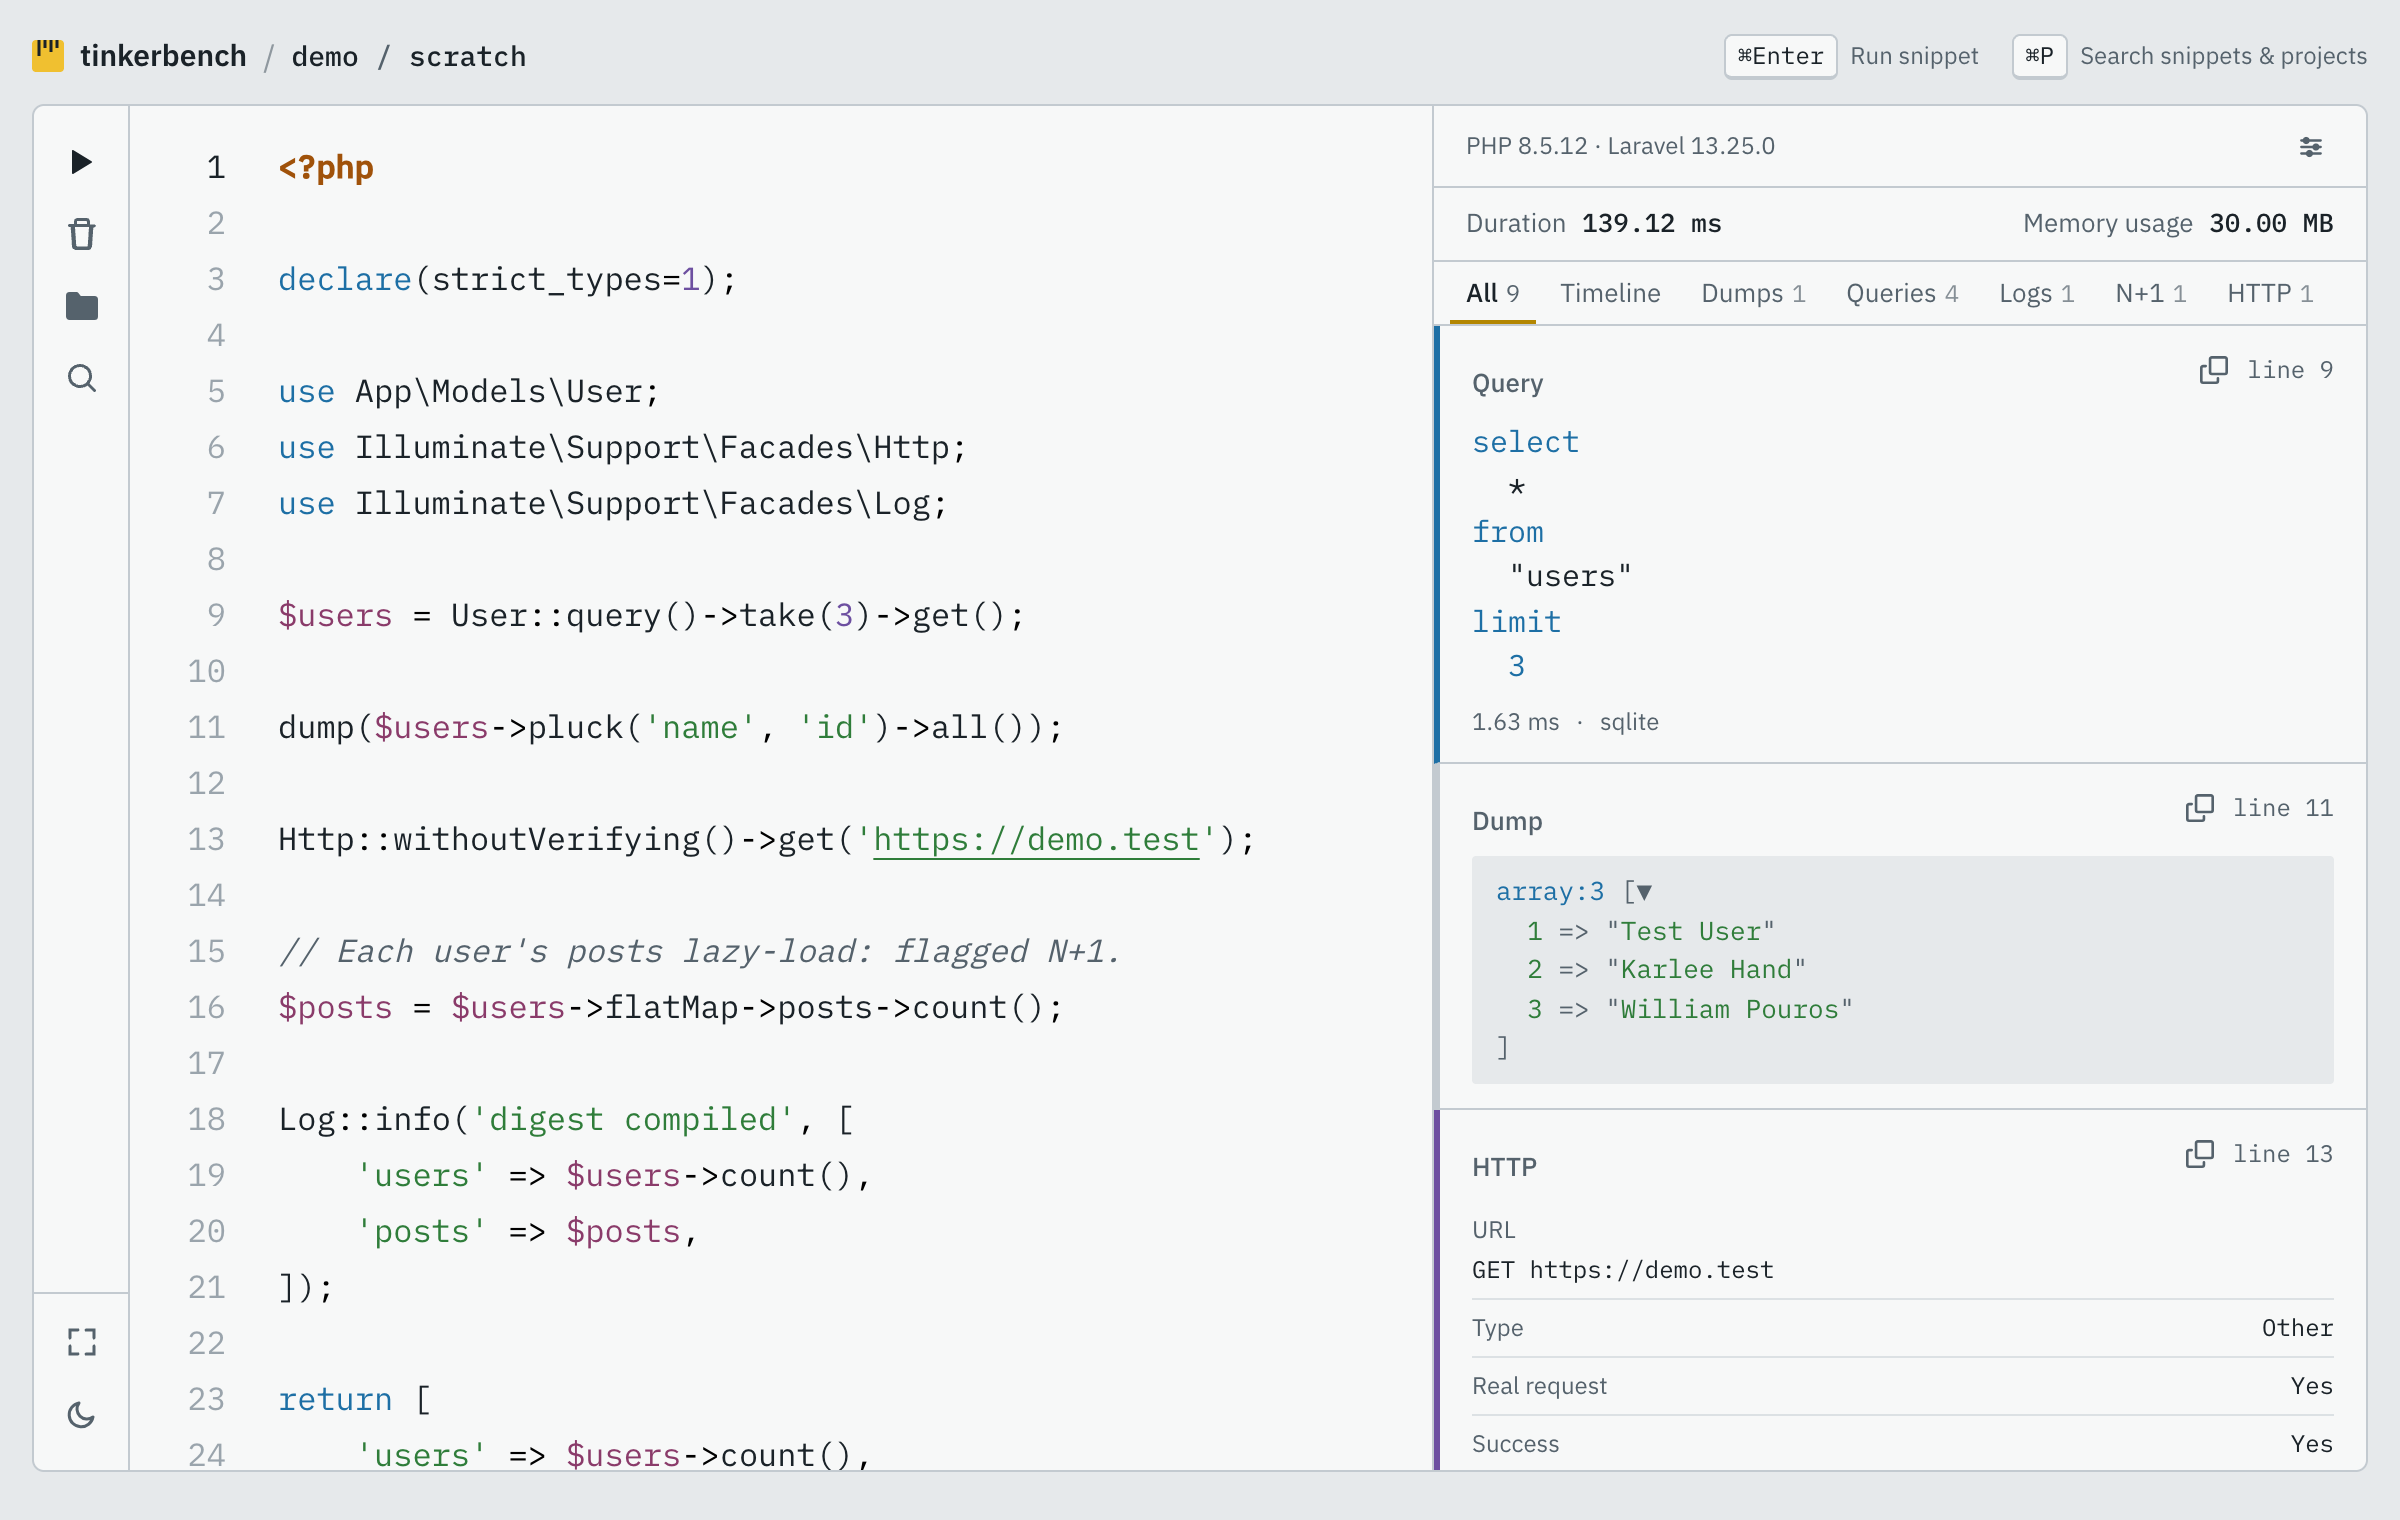
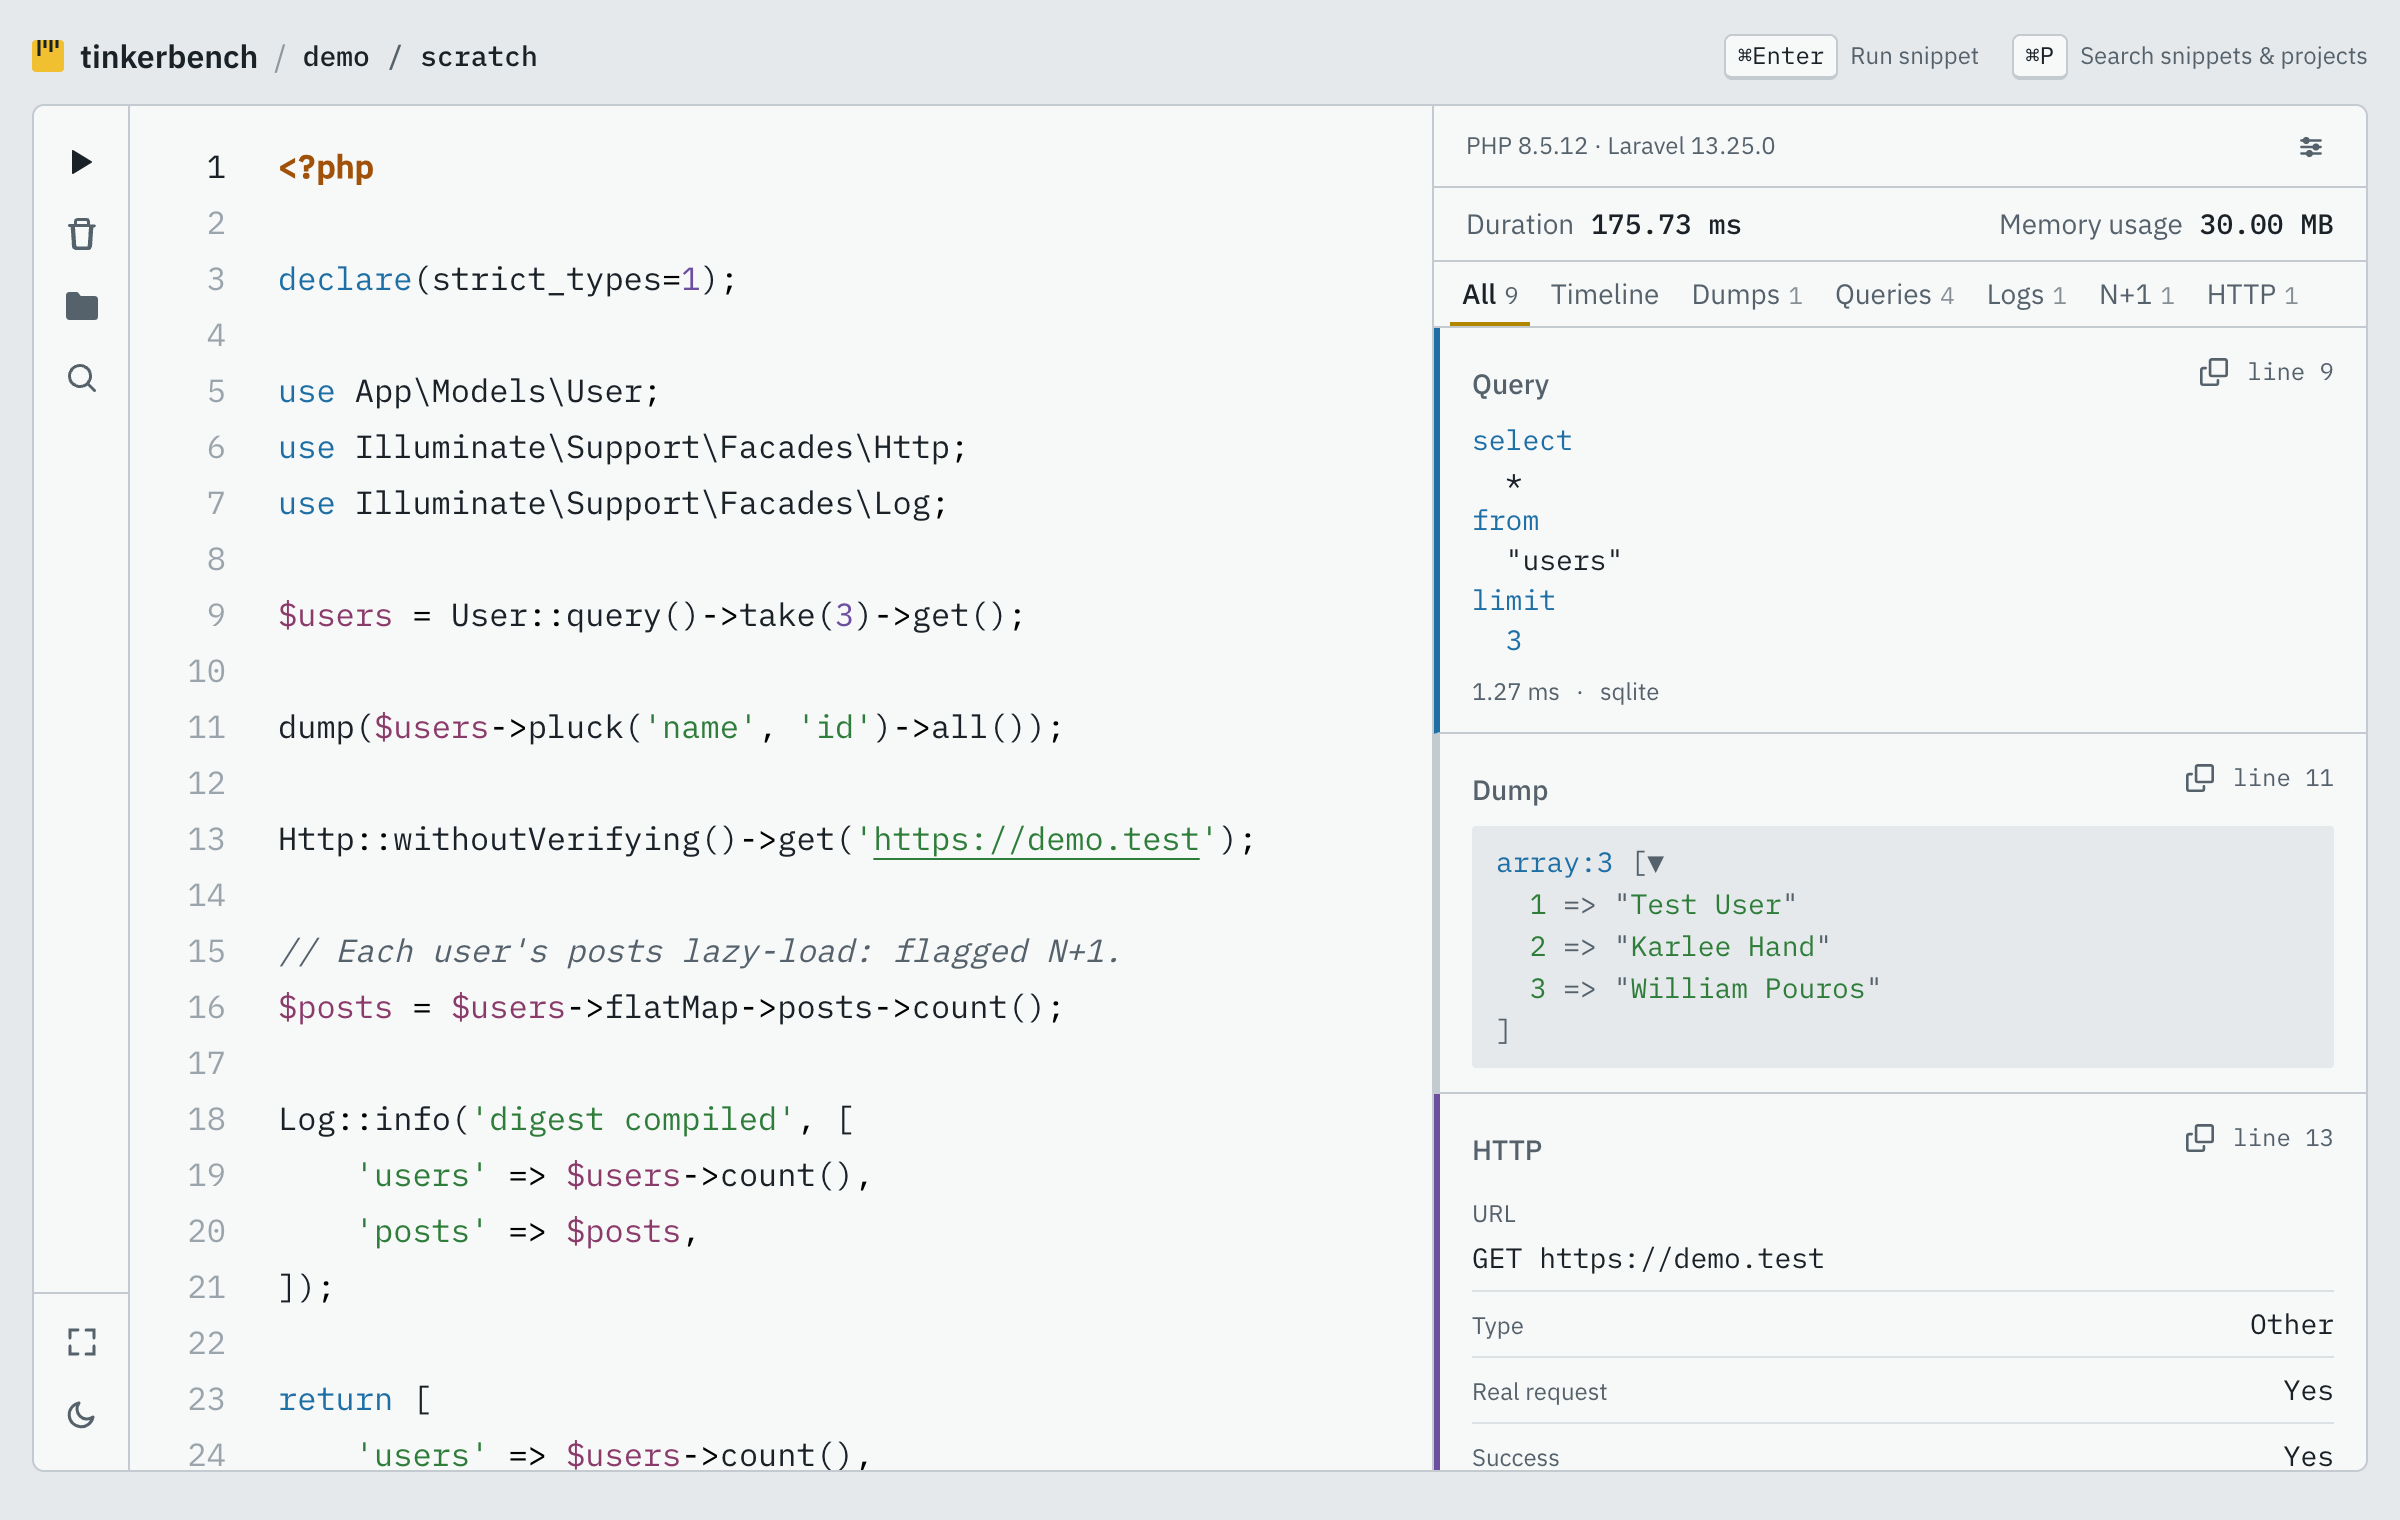
Replace arbitrary pixel font sizes with Tailwind scale sizes, raise card body, timeline, run summary and VarDumper text to 14px, keep HTTP client labels small with baseline-aligned rows, tighten tab padding, widen the timeline duration column, and refresh screenshots

diff --git a/resources/js/components/feed/HttpClientCard.vue b/resources/js/components/feed/HttpClientCard.vue
@@ -55,45 +55,47 @@ function formatBody(
         :copy="entry.response_body_preview ?? ''"
         @navigate="$emit('navigate', $event)"
     >
-        <dl class="flex flex-col text-xs">
+        <dl class="flex flex-col text-sm">
             <div class="flex flex-col gap-1 border-b border-line/50 py-1.5">
-                <dt class="font-sans text-muted">URL</dt>
+                <dt class="font-sans text-xs text-muted">URL</dt>
                 <dd class="break-all text-fg">
                     {{ entry.method }} {{ entry.url }}
                 </dd>
             </div>
             <div
-                class="flex items-start justify-between gap-3 border-b border-line/50 py-1.5"
+                class="flex items-baseline justify-between gap-3 border-b border-line/50 py-1.5"
             >
-                <dt class="shrink-0 font-sans text-muted">Type</dt>
+                <dt class="shrink-0 font-sans text-xs text-muted">Type</dt>
                 <dd class="text-fg">{{ entry.request_type }}</dd>
             </div>
             <div
-                class="flex items-start justify-between gap-3 border-b border-line/50 py-1.5"
+                class="flex items-baseline justify-between gap-3 border-b border-line/50 py-1.5"
             >
-                <dt class="shrink-0 font-sans text-muted">Real request</dt>
+                <dt class="shrink-0 font-sans text-xs text-muted">
+                    Real request
+                </dt>
                 <dd class="text-fg">{{ entry.faked ? 'No' : 'Yes' }}</dd>
             </div>
             <div
-                class="flex items-start justify-between gap-3 border-b border-line/50 py-1.5"
+                class="flex items-baseline justify-between gap-3 border-b border-line/50 py-1.5"
             >
-                <dt class="shrink-0 font-sans text-muted">Success</dt>
+                <dt class="shrink-0 font-sans text-xs text-muted">Success</dt>
                 <dd class="text-fg">{{ entry.status < 400 ? 'Yes' : 'No' }}</dd>
             </div>
             <div
-                class="flex items-start justify-between gap-3 border-b border-line/50 py-1.5"
+                class="flex items-baseline justify-between gap-3 border-b border-line/50 py-1.5"
             >
-                <dt class="shrink-0 font-sans text-muted">Status</dt>
+                <dt class="shrink-0 font-sans text-xs text-muted">Status</dt>
                 <dd class="text-fg">{{ entry.status }}</dd>
             </div>
             <div
-                class="flex items-start justify-between gap-3 border-b border-line/50 py-1.5"
+                class="flex items-baseline justify-between gap-3 border-b border-line/50 py-1.5"
             >
-                <dt class="shrink-0 font-sans text-muted">Duration</dt>
+                <dt class="shrink-0 font-sans text-xs text-muted">Duration</dt>
                 <dd class="text-fg">{{ entry.duration_str }}</dd>
             </div>
             <div class="flex flex-col gap-1 border-b border-line/50 py-1.5">
-                <dt class="font-sans text-muted">Request headers</dt>
+                <dt class="font-sans text-xs text-muted">Request headers</dt>
                 <dd>
                     <pre class="break-all whitespace-pre-wrap text-fg">{{
                         formatHeaders(entry.request_headers)
@@ -101,7 +103,7 @@ function formatBody(
                 </dd>
             </div>
             <div class="flex flex-col gap-1 border-b border-line/50 py-1.5">
-                <dt class="font-sans text-muted">Request body</dt>
+                <dt class="font-sans text-xs text-muted">Request body</dt>
                 <dd>
                     <pre class="break-all whitespace-pre-wrap text-fg">{{
                         formatBody(
@@ -119,7 +121,7 @@ function formatBody(
                 </dd>
             </div>
             <div class="flex flex-col gap-1 border-b border-line/50 py-1.5">
-                <dt class="font-sans text-muted">Response headers</dt>
+                <dt class="font-sans text-xs text-muted">Response headers</dt>
                 <dd>
                     <pre class="break-all whitespace-pre-wrap text-fg">{{
                         formatHeaders(entry.response_headers)
@@ -127,7 +129,7 @@ function formatBody(
                 </dd>
             </div>
             <div class="flex flex-col gap-1 py-1.5">
-                <dt class="font-sans text-muted">Response body</dt>
+                <dt class="font-sans text-xs text-muted">Response body</dt>
                 <dd>
                     <pre class="break-all whitespace-pre-wrap text-fg">{{
                         formatBody(

diff --git a/resources/js/pages/Snippets/OpenSnippet.vue b/resources/js/pages/Snippets/OpenSnippet.vue
@@ -356,7 +356,7 @@ function toggleMaximize(): void {
         >
             <div class="flex min-w-0 items-center gap-2">
                 <span
-                    class="flex shrink-0 items-center gap-2 text-[15px] font-semibold text-fg"
+                    class="flex shrink-0 items-center gap-2 text-base font-semibold text-fg"
                 >
                     <svg
                         viewBox="0 0 16 16"
@@ -606,7 +606,7 @@ function toggleMaximize(): void {
                                 type="button"
                                 role="tab"
                                 :aria-selected="activeTab === filter.value"
-                                class="flex shrink-0 items-baseline gap-1 px-2 py-1.5 text-[13px] whitespace-nowrap"
+                                class="flex shrink-0 items-baseline gap-1 px-1.5 py-1.5 text-sm whitespace-nowrap"
                                 :class="
                                     activeTab === filter.value
                                         ? 'font-medium text-fg shadow-[inset_0_-2px_0_var(--measure)]'
@@ -631,7 +631,7 @@ function toggleMaximize(): void {
                                 type="button"
                                 role="tab"
                                 :aria-selected="activeTab === 'timeline'"
-                                class="shrink-0 px-2 py-1.5 text-[13px] whitespace-nowrap"
+                                class="shrink-0 px-1.5 py-1.5 text-sm whitespace-nowrap"
                                 :class="
                                     activeTab === 'timeline'
                                         ? 'font-medium text-fg shadow-[inset_0_-2px_0_var(--measure)]'
@@ -672,10 +672,7 @@ function toggleMaximize(): void {
                         aria-label="Snippet output"
                         class="min-h-0 flex-1 overflow-auto"
                     >
-                        <p
-                            v-if="!hasRun"
-                            class="px-4 py-6 text-[13px] text-muted"
-                        >
+                        <p v-if="!hasRun" class="px-4 py-6 text-sm text-muted">
                             Run the snippet to see its output here.
                             <span class="mt-2 block">
                                 <kbd
@@ -686,7 +683,7 @@ function toggleMaximize(): void {
                         </p>
                         <p
                             v-else-if="ranWithoutOutput && activeTab === 'all'"
-                            class="px-4 py-6 text-[13px] text-muted"
+                            class="px-4 py-6 text-sm text-muted"
                         >
                             No output. Return a value or call dump() to see it
                             here.

diff --git a/resources/js/components/RunTimeline.vue b/resources/js/components/RunTimeline.vue
@@ -100,7 +100,7 @@ const parts = computed<Part[]>(() => {
 </script>
 
 <template>
-    <div class="flex flex-col gap-3 px-4 py-3 text-[13px]">
+    <div class="flex flex-col gap-3 px-4 py-3 text-sm">
         <p
             class="flex items-baseline justify-between gap-x-3 text-fg"
             title="Console boot, not a web request. The same on every run, so it is not part of the shares below."
@@ -122,7 +122,7 @@ const parts = computed<Part[]>(() => {
         -->
         <div
             aria-hidden="true"
-            class="grid grid-cols-[3rem_6.5rem_3rem_1fr] gap-x-3 pl-4 font-mono text-[11px] text-muted"
+            class="grid grid-cols-[3rem_7rem_3rem_1fr] gap-x-3 pl-4 font-mono text-xs text-muted"
         >
             <span
                 class="col-start-4 flex h-5 items-end justify-between border-b border-muted/60 bg-[repeating-linear-gradient(to_right,var(--muted)_0_1px,transparent_1px_10%)] bg-[length:100%_6px] bg-bottom bg-no-repeat"
@@ -140,7 +140,7 @@ const parts = computed<Part[]>(() => {
                 :title="part.hint"
             >
                 <div
-                    class="grid grid-cols-[3rem_6.5rem_3rem_1fr] items-center gap-x-3"
+                    class="grid grid-cols-[3rem_7rem_3rem_1fr] items-center gap-x-3"
                 >
                     <span class="font-medium text-fg">{{ part.label }}</span>
                     <span

diff --git a/resources/js/components/Card.vue b/resources/js/components/Card.vue
@@ -69,7 +69,7 @@ onBeforeUnmount(() => clearTimeout(resetTimer));
         :class="edgeClass"
     >
         <header
-            class="flex items-baseline justify-between gap-3 text-[13px] text-muted"
+            class="flex items-baseline justify-between gap-3 text-sm text-muted"
         >
             <span class="font-medium">{{ label }}</span>
 
@@ -121,7 +121,7 @@ onBeforeUnmount(() => clearTimeout(resetTimer));
             </div>
         </header>
 
-        <div class="mt-2 min-w-0 overflow-x-auto font-mono text-[15px] text-fg">
+        <div class="mt-2 min-w-0 overflow-x-auto font-mono text-sm text-fg">
             <slot />
         </div>
 

diff --git a/resources/js/components/RunSummary.vue b/resources/js/components/RunSummary.vue
@@ -7,7 +7,7 @@ defineProps<{ debug: SnippetDebugPayload }>();
 <template>
     <section
         aria-label="Run time"
-        class="flex shrink-0 flex-wrap items-baseline justify-between gap-x-3 border-b border-line px-4 py-2 font-mono text-[13px] font-medium text-fg tabular-nums"
+        class="flex shrink-0 flex-wrap items-baseline justify-between gap-x-3 border-b border-line px-4 py-2 font-mono text-sm font-medium text-fg tabular-nums"
     >
         <span class="whitespace-nowrap"
             ><span class="font-sans font-normal text-muted">Duration</span>

diff --git a/resources/js/components/CommandPalette.vue b/resources/js/components/CommandPalette.vue
@@ -899,7 +899,7 @@ async function confirmDelete(name: string): Promise<void> {
                 </ul>
 
                 <p
-                    class="border-t border-line px-3 py-1.5 font-mono text-[11px] text-muted"
+                    class="border-t border-line px-3 py-1.5 font-mono text-xs text-muted"
                 >
                     Type <kbd class="text-fg">#</kbd> for snippets,
                     <kbd class="text-fg">/</kbd> for projects.

diff --git a/resources/css/app.css b/resources/css/app.css
@@ -99,7 +99,7 @@ html pre.sf-dump {
     background-color: var(--canvas);
     color: var(--muted);
     font-family: var(--font-mono);
-    font-size: 13px;
+    font-size: 14px;
     line-height: 1.5;
     padding: 0.5rem 0.75rem;
     border-radius: 2px;
